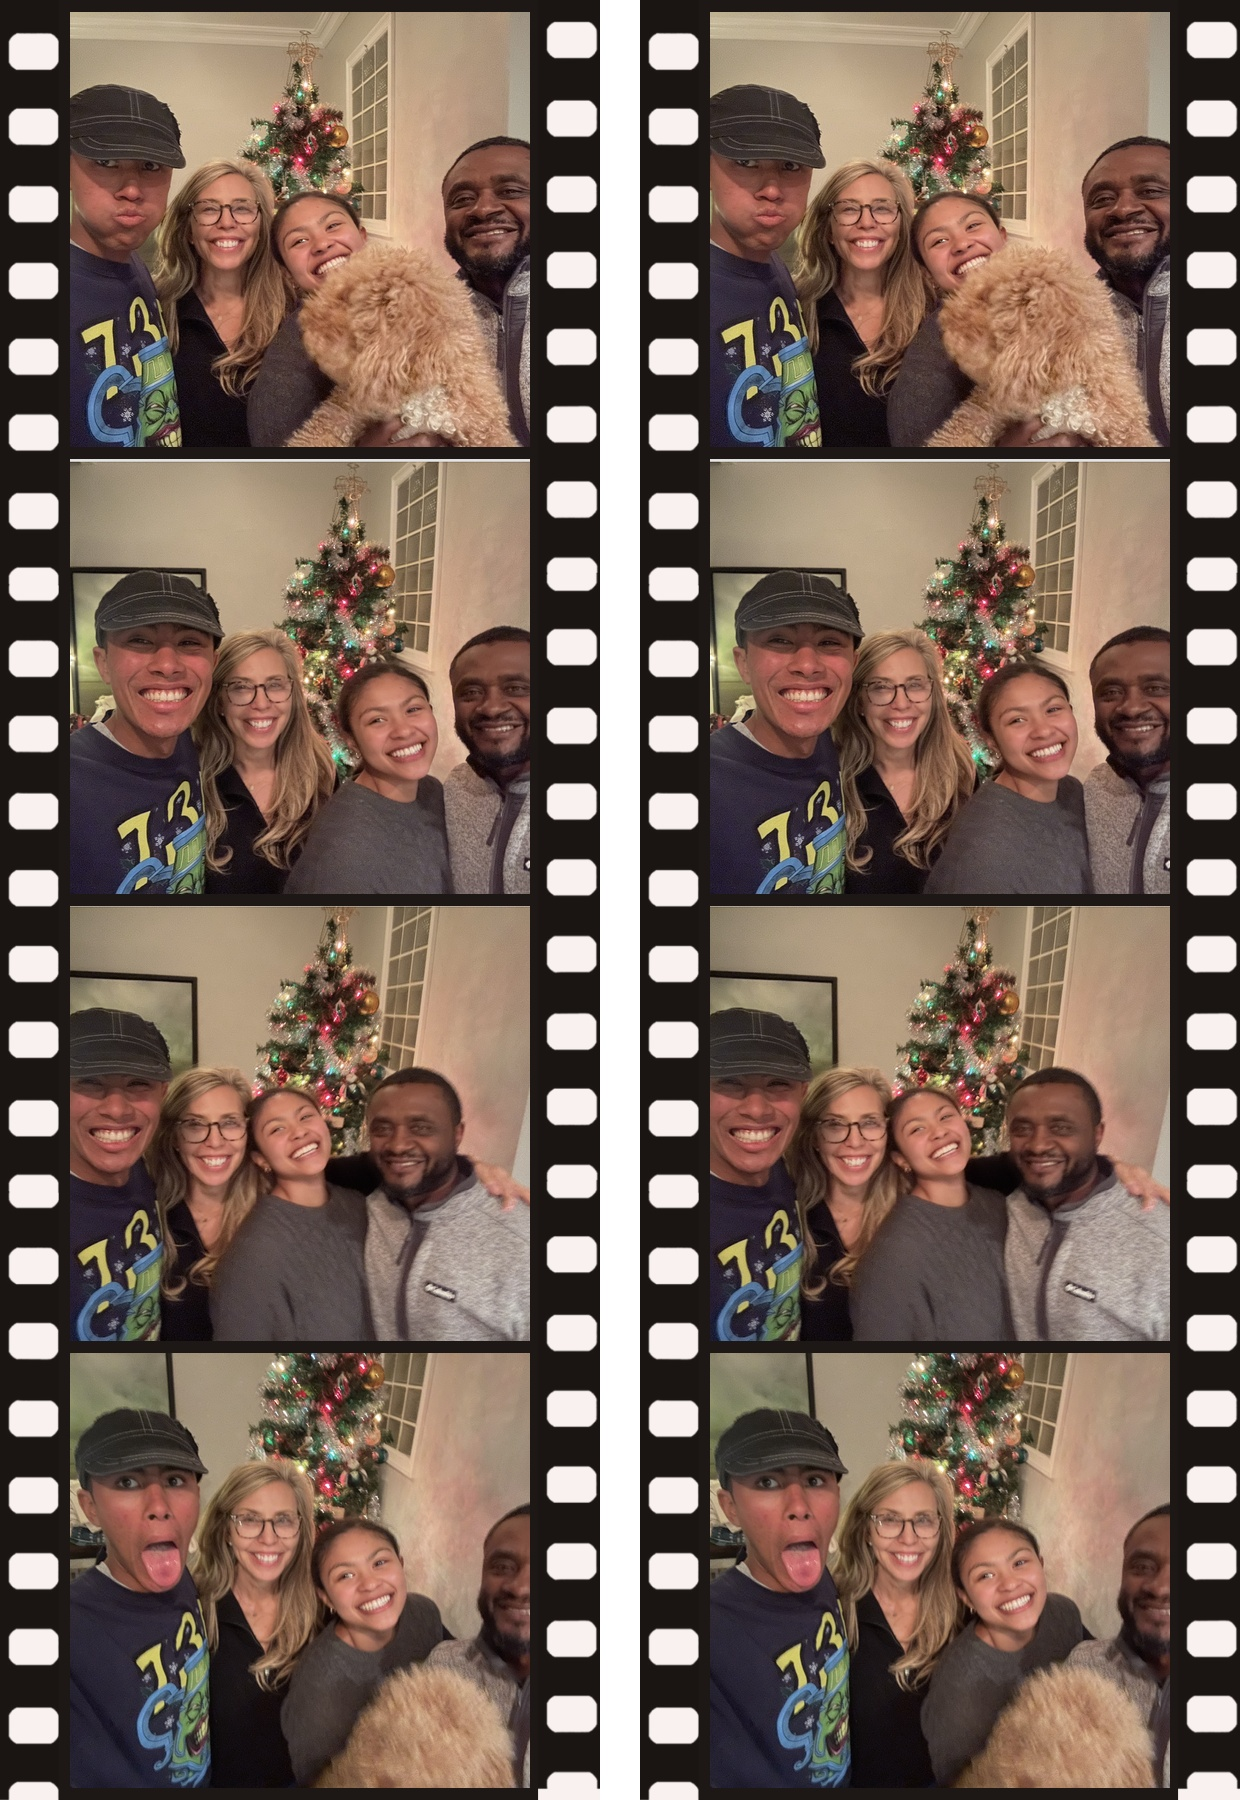
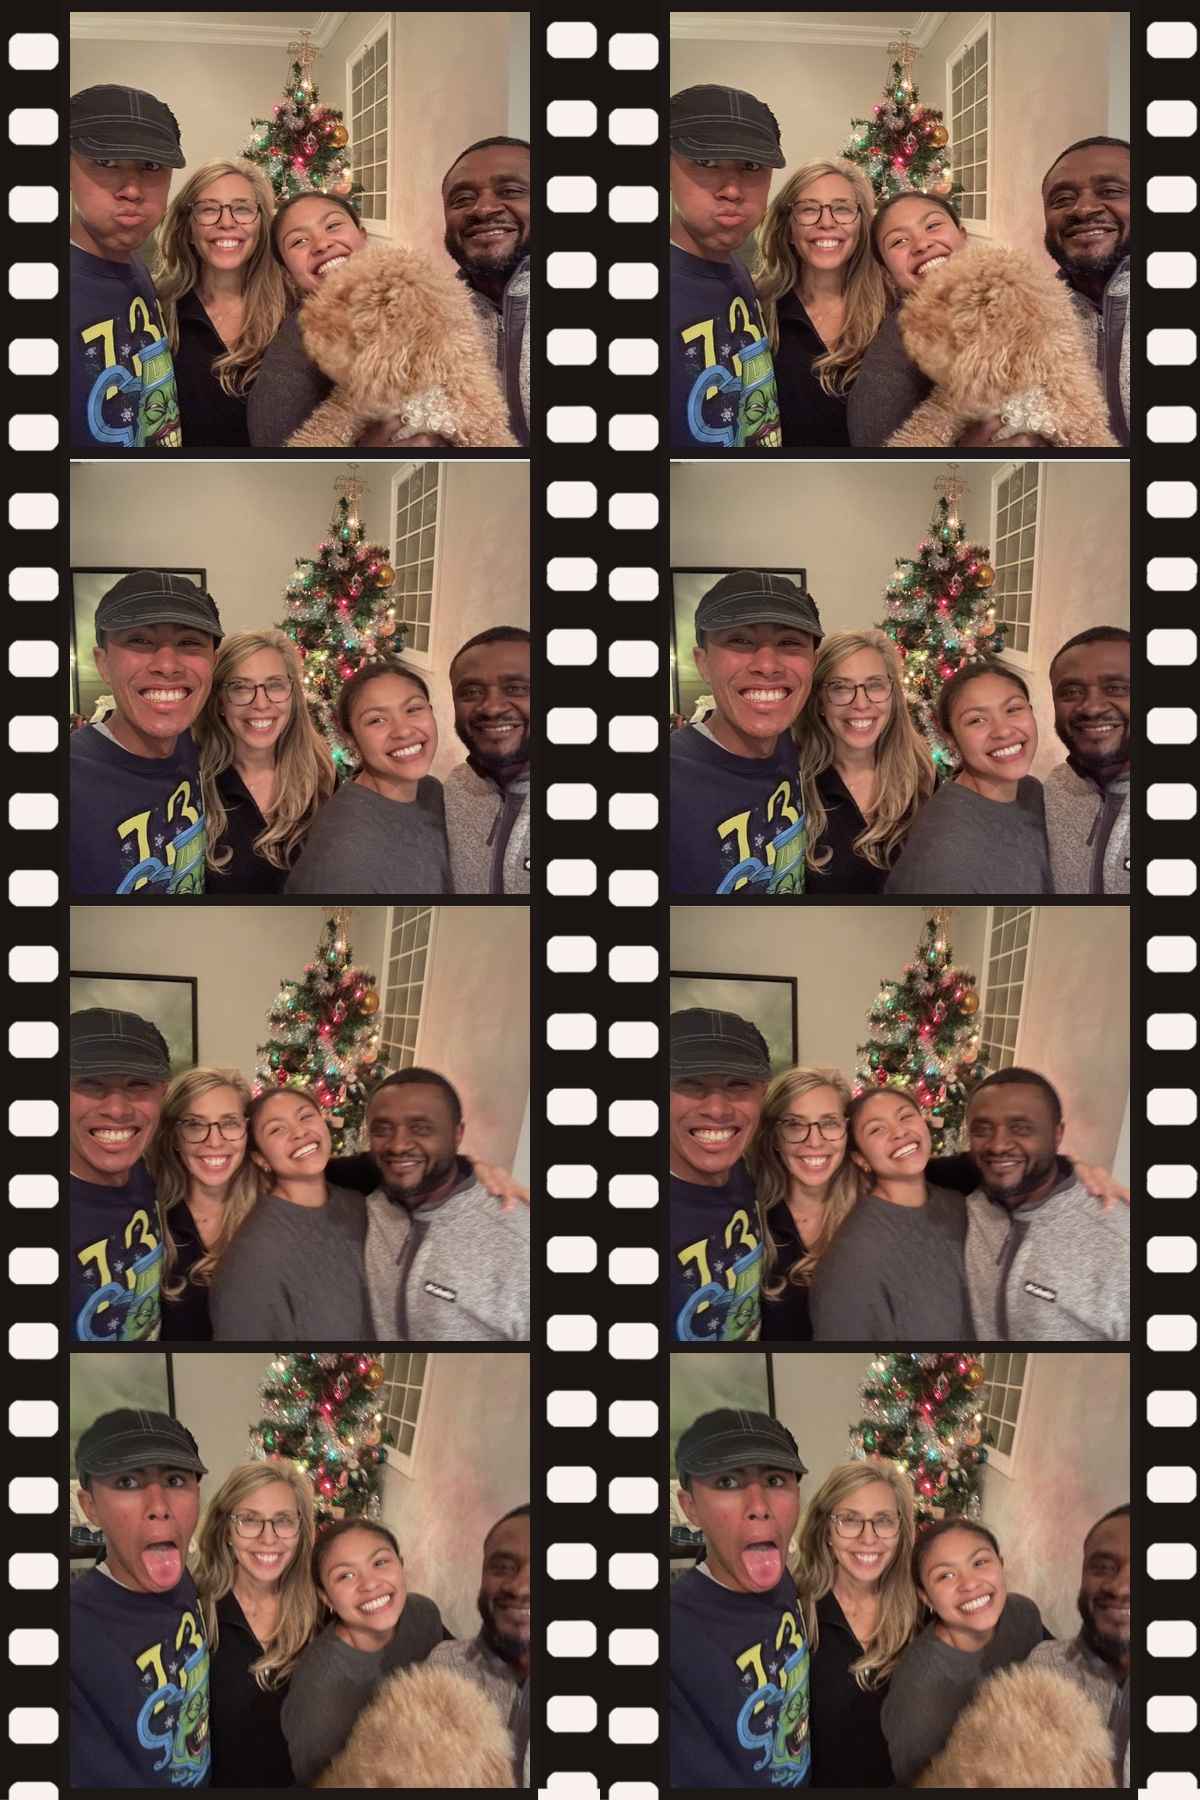
no border print?

diff --git a/printprac.py b/printprac.py
@@ -137,38 +137,71 @@ def save_for_print(img: Image.Image, out_path: str, jpeg_quality: int = 95) -> s
         img.convert("RGB").save(out_path, "JPEG", quality=jpeg_quality)
     return out_path
 
-
 def try_print(file_path: str, printer_name: str, copies: int = 1) -> None:
-    """
-    Best-effort cross-platform printing.
-    - macOS: uses lp
-    - Windows: uses mspaint /pt
-    """
     system = platform.system().lower()
-
-    if copies < 1:
-        copies = 1
+    copies = max(1, int(copies))
 
     if "darwin" in system or "mac" in system:
-        # macOS: lp is the normal CLI print path
-        # -n copies sets number of copies
+        # macOS
         cmd = ["lp", "-d", printer_name, "-n", str(copies), file_path]
         subprocess.run(cmd, check=True)
 
     elif "windows" in system:
-        # Windows: mspaint /pt prints images to a named printer
-        # This will spawn briefly; depends on printer driver availability.
-        # Copies: mspaint doesn't reliably support copies via CLI; loop copies.
-        mspaint = os.path.join(os.environ.get("SystemRoot", r"C:\Windows"), "System32", "mspaint.exe")
-        if not os.path.exists(mspaint):
-            mspaint = "mspaint"
+        # Windows: use PowerShell PrintTo (more reliable than mspaint for scaling/tiling)
+        ps_file = file_path.replace("'", "''")
+        ps_printer = printer_name.replace("'", "''")
+
+        ps = (
+            f"$p='{ps_printer}'; "
+            f"$f='{ps_file}'; "
+            "Start-Process -FilePath $f -Verb PrintTo -ArgumentList $p"
+        )
 
         for _ in range(copies):
-            cmd = [mspaint, "/pt", file_path, printer_name]
-            subprocess.run(cmd, check=True)
+            subprocess.run(["powershell", "-NoProfile", "-Command", ps], check=True)
 
     else:
         raise RuntimeError(f"Printing not implemented for OS: {platform.system()}")
+
+
+def describe_sizes(template_img: Image.Image, composed: Image.Image, doubled: Image.Image) -> None:
+    tw, th = template_img.size
+    cw, ch = composed.size
+    dw, dh = doubled.size
+
+    print("\n=== IMAGE SIZE REPORT ===")
+    print(f"Template PNG size:  {tw} x {th} px")
+    print(f"Composed size:      {cw} x {ch} px")
+    print(f"Doubled size:       {dw} x {dh} px (2-up side-by-side, gap=0)")
+    print("=========================\n")
+
+
+def compare_to_target(doubled: Image.Image, target_w: int, target_h: int) -> None:
+    dw, dh = doubled.size
+
+    # Compute scale to FIT (contain) target while keeping aspect ratio
+    scale_fit = min(target_w / dw, target_h / dh)
+    fit_w = int(round(dw * scale_fit))
+    fit_h = int(round(dh * scale_fit))
+
+    # Compute scale to FILL (cover) target while keeping aspect ratio (would crop)
+    scale_cover = max(target_w / dw, target_h / dh)
+    cover_w = int(round(dw * scale_cover))
+    cover_h = int(round(dh * scale_cover))
+
+    print("=== TARGET PAPER COMPARISON ===")
+    print(f"Target paper pixels: {target_w} x {target_h} px")
+    print(f"Your doubled image:  {dw} x {dh} px")
+    print("")
+    print(f"FIT scale (no crop, may leave borders): {scale_fit:.4f} -> {fit_w} x {fit_h}")
+    if fit_w != target_w or fit_h != target_h:
+        print("  -> This WILL produce borders unless the driver does borderless scaling.")
+    else:
+        print("  -> Perfect FIT match (no border expected).")
+    print("")
+    print(f"COVER scale (fills paper, crops edges): {scale_cover:.4f} -> {cover_w} x {cover_h}")
+    print("  -> This prints borderless but may crop.")
+    print("===============================\n")
 
 
 def main():
@@ -210,8 +243,9 @@ def main():
     slots = parse_slots(data, template_json)
 
     composed = compose_into_template(template_png, slots, photo_paths)
+    template_img = Image.open(template_png).convert("RGBA")
     doubled = side_by_side(composed, gap=0)
-
+    describe_sizes(template_img, composed, doubled)
     # Save output
     out_path = args.output if os.path.isabs(args.output) else os.path.join(base_dir, args.output)
     out_path = save_for_print(doubled, out_path)
